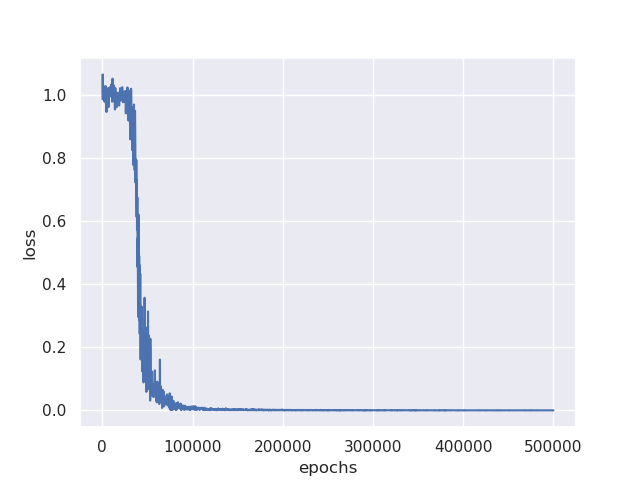
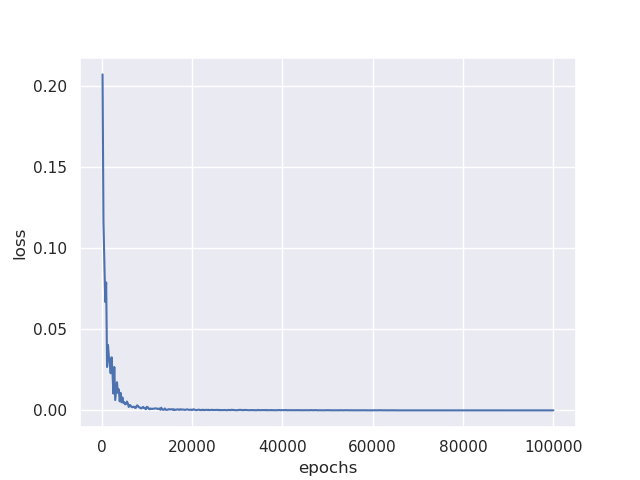
Run ReLU experiment success

diff --git a/TLNN.py b/TLNN.py
@@ -120,35 +120,44 @@ class Binary_Cross_Entropy(Layer):
         batch_size = y.shape[0]
         self.y = y
         self.ground_truth = ground_truth
+        
         # To avoid -inf; 重要！！
         delta = 1e-7 
         
-        return -np.sum(self.ground_truth * np.log2(self.y + delta) + (1-self.ground_truth) * np.log2(1 - self.y + delta) ) / batch_size
+        return (-1/ batch_size)*np.sum(self.ground_truth * np.log2(self.y + delta) + (1-self.ground_truth) * np.log2(1 - self.y + delta))
     
     def backward(self,prev_grad=1,lr=0.1):
         '''
             prev_grad, lr: pseudo parameters
         '''
         batch_size = self.y.shape[0]
-        dx = - (np.divide(self.ground_truth, self.y) - np.divide(1 - self.ground_truth, 1 - self.y))
+        
+        # To avoid -inf; 
+        delta = 1e-7 
+        dx = - (np.divide(self.ground_truth, self.y + delta) - np.divide(1 - self.ground_truth, 1 - self.y + delta))
         return dx
     
     
 class TLNN(object):
-    def __init__(self, layer_1_units = 4, layer_2_units = 4, bias= True):
+    def __init__(self, layer_1_units = 4, layer_2_units = 4, bias= True, act_f = 'sigmoid', loss_f = 'mse'):
+        act_f_list = {'sigmoid':Sigmoid,
+                     'relu': ReLU}
+        
+        loss_f_list = {'mse':MSE,
+                      'bce':Binary_Cross_Entropy}
+        
         self.layers = OrderedDict()
         self.layers['linear_1'] = Linear(2,layer_1_units,bias=bias)
-        #self.layers['ReLU_1'] = ReLU()
-        self.layers['sigmoid_1'] = Sigmoid()
+        self.layers[str(act_f_list[act_f])+'_1'] = act_f_list[act_f]()
+        #elf.layers['sigmoid_1'] = Sigmoid()
         self.layers['linear_2'] = Linear(layer_1_units,layer_2_units,bias=bias)
-        #self.layers['ReLU_2'] = ReLU()
-        self.layers['sigmoid_2'] = Sigmoid()
+        self.layers[str(act_f_list[act_f])+'_2'] = act_f_list[act_f]()
+        #elf.layers['sigmoid_2'] = Sigmoid()
         self.layers['output'] = Linear(layer_2_units,1,bias = False)
-        #self.layers['ReLU_3'] = ReLU()
         self.layers['sigmoid_3'] = Sigmoid()
         
-        self.loss_func = Binary_Cross_Entropy()
-        #self.loss_func = MSE()
+        #self.loss_func = Binary_Cross_Entropy()
+        self.loss_func = loss_f_list[loss_f]()
         
     def forward(self, x):
         for layer in self.layers.values():

diff --git a/train_XOR_relu_mse.py b/train_XOR_relu_mse.py
@@ -4,15 +4,14 @@ from run_net import *
 if __name__ == '__main__':
     # XOR data
     data_x, data_y = generate_XOR_easy()
-    num_epochs = 500000
+    num_epochs = 100000
     #num_epochs = 10000
     batch_size= 5
-    print_freq = 10000
+    print_freq = 1000
     lr=0.01
     plot_loss_freq=200
     
-    pred_y, loss_list = run_Net(data_x,data_y,num_epochs, batch_size, print_freq, lr, plot_loss_freq,layer_1_units = 4, \
-                                layer_2_units = 4, act_f = 'sigmoid', loss_f = 'mse')
+    pred_y, loss_list = run_Net(data_x,data_y,num_epochs, batch_size, print_freq, lr, plot_loss_freq,layer_1_units = 4, layer_2_units = 4, act_f = 'relu', loss_f = 'mse')
     
     # Comparison graph
     show_result(data_x,data_y,pred_y)
@@ -24,7 +23,7 @@ if __name__ == '__main__':
      
     # loss/epoch curve
     plt.figure()
-    plt.title('Train with Sigmoid & MSE')
+    plt.title('Train with ReLU & MSE')
     plt.xlabel('epochs')
     plt.ylabel('loss')
     plt.plot(loss_list['epochs'],loss_list['loss'])

diff --git a/run_net.py b/run_net.py
@@ -10,8 +10,9 @@ sns.set(style="darkgrid")
 def acc(ground_truth, y):
     print ('Accuracy = ',100* (ground_truth[ground_truth==y].size / ground_truth.size) , '%')
 
-def run_Net(data_x, data_y, num_epochs = 10000, batch_size=20, print_freq = 1000, lr=0.05, plot_loss_freq=10, enable_loss_msg = True, layer_1_units = 4, layer_2_units = 4):
-    net = TLNN(layer_1_units, layer_2_units)
+def run_Net(data_x, data_y, num_epochs = 10000, batch_size=20, print_freq = 1000, lr=0.05, plot_loss_freq=10, enable_loss_msg = True, layer_1_units = 4, layer_2_units = 4, act_f = 'sigmoid', loss_f = 'mse'):
+    
+    net = TLNN(layer_1_units, layer_2_units,act_f = act_f, loss_f = loss_f)
     data_size = data_x.shape[0]
     iter_per_epoch = max(round(data_size/batch_size), 1)
     
